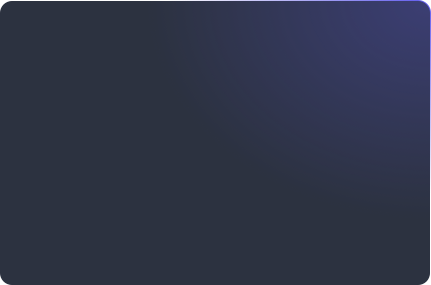
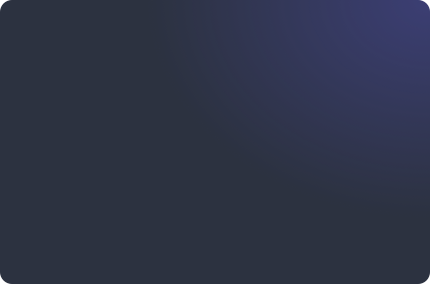
fix:知识库卡片字体&边框&创建知识库输入框问题&文本和视觉输入placeholder和输入框边框

Changed region(s): [[0.0, 0.0, 1.0, 0.9859], [0.9674, 0.9859, 0.9977, 1.0]]

diff --git a/src/views/aiFrame/pages/knowledgeLib/index.vue b/src/views/aiFrame/pages/knowledgeLib/index.vue
@@ -60,7 +60,49 @@ const showGuide = ref(false);
 const knowledgeList = ref<any[]>([]);
 const getKnowledgeList = async () => {
   knowledgeList.value = [];
-  const res = await getCollectionList();
+  // const res = await getCollectionList();
+  const res = [
+    {
+      id: '1111111111111111111111111',
+      docNum: 2,
+      collectionName: '玉米种植技术',
+      dataType: 'unstructured_data',
+      creator: '创建者',
+      description: '描述文字'
+    },
+    {
+      id: '1111111111111111111111111',
+      docNum: 2,
+      collectionName: '玉米种植技术',
+      dataType: 'unstructured_data',
+      creator: '创建者',
+      description: ''
+    },
+    {
+      id: '1111111111111111111111111',
+      docNum: 2,
+      collectionName: '玉米种植技术',
+      dataType: 'unstructured_data',
+      creator: '创建者2222222222222222222222222',
+      description: '描述文字'
+    },
+    {
+      id: '1111111111111111111111111',
+      docNum: 2,
+      collectionName: '玉米种植技术',
+      dataType: 'unstructured_data',
+      creator: '创建者',
+      description: ''
+    },
+    {
+      id: '1111111111111111111111111',
+      docNum: 2,
+      collectionName: '玉米种植技术',
+      dataType: 'unstructured_data',
+      creator: '创建者',
+      description: '描述文字'
+    }
+  ];
   knowledgeList.value = Array.isArray(res) ? res : [];
   console.log(knowledgeList.value.length, 0 === knowledgeList.value.length);
 };
@@ -91,12 +133,13 @@ const handleClickImport = (index: number) => {
 
 const handleSubmitImport = async () => {
   const id = currentLibId.value;
-  if (!docUrl.value) return ElMessage.warning('请先上传文件！');
+  if (!docUrl.value) return ElMessage.warning({ message: '请先上传文件！', customClass: 'my-msg' });
   await postAddDoc({
     collectionId: id,
     fileManagement: docUrl.value
   });
-  message.success('导入成功');
+  // message.success('导入成功');
+  ElMessage.success({ message: '导入成功', customClass: 'my-msg' });
 
   // 上传完成后重新查询文档列表和知识库列表
   await getDocumentList(id);
@@ -154,9 +197,11 @@ const handleClickDeleteDoc = async (docId: string) => {
     });
     if ('doc is not completed, cannot be deleted' === res) {
       // 文档还在训练中
-      message.warning(t('文档训练未完成，暂时无法删除'));
+      // message.warning(t('文档训练未完成，暂时无法删除'));
+      ElMessage.warning({ message: '文档训练未完成，暂时无法删除', customClass: 'my-msg' });
     } else {
-      message.success(t('common.delSuccess'));
+      // message.success(t('common.delSuccess'));
+      ElMessage.success({ message: '删除成功', customClass: 'my-msg' });
     }
 
     // 重新查询文档列表和知识库列表
@@ -183,7 +228,8 @@ const handleDeleteLib = async (index: number) => {
     const code = await postDeleteLib({ collectionId: id });
     switch (code) {
       case '0':
-        message.success(t('common.delSuccess'));
+        // message.success(t('common.delSuccess'));
+        ElMessage.success({ message: '删除成功', customClass: 'my-msg' });
         break;
       case '1000005':
         await deleteLibWithoutCollection(id);
@@ -205,7 +251,8 @@ const deleteLibWithoutCollection = async (collectionId: string) => {
   try {
     await message.delConfirm('该知识库在服务端不存在，是否强制删除？');
     await postForceDeleteLib({ collectionId });
-    message.success(t('common.delSuccess'));
+    // message.success(t('common.delSuccess'));
+    ElMessage.success({ message: '删除成功', customClass: 'my-msg' });
   } catch (e) {
     if ('cancel' === e) {
       console.log('取消删除');
@@ -238,7 +285,7 @@ function getLastPart(str) {
     <template v-if="showLibPage">
       <!-- header -->
       <div class="h-[5.7em] p-[2.4em] pl-[3.6em] flex justify-between items-start">
-        <div class="grow flex items-start h-full">
+        <div class="flex-auto w-[1px] flex items-start h-full mr-[48px]">
           <div class="flex-none logo w-[4.8em] h-[4.8em]"></div>
           <div class="grow pl-[1.6em] flex flex-col justify-between h-[5.7em]">
             <h1 class="m-0 text-[2.4em]">知识库</h1>
@@ -341,30 +388,30 @@ function getLastPart(str) {
           <!-- knowledge lib list -->
           <template v-else>
             <div
-              class="mt-[2.4em] grid md:grid-cols-2 2xl:grid-cols-3 gap-[1.6em] pl-[4em] pr-[2.4em] pb-20px"
+              class="mt-[2.4em] grid grid-cols-2 lg:grid-cols-3 2xl:grid-cols-4 gap-[1.6em] pl-[4em] pr-[2.4em] pb-20px"
             >
               <div
                 v-for="(item, index) in knowledgeList"
                 :key="item.name"
-                class="rounded-[1.2em] card-bg overflow-hidden shadow-lg pt-[25px] pl-[24px] pb-[30px] pr-[37px] transition-all ease-in-out duration-600 hover:scale-103 hover:!border hover:!border-solid hover:!border-[#615ced]"
+                class="rounded-[12px] card-bg overflow-hidden shadow-md p-[16px] transition-all ease-in-out duration-400 hover:scale-103 hover:!border hover:!border-solid hover:!border-[#615ced] box-border"
               >
                 <div class="flex justify-between items-center">
-                  <div>
-                    <div class="text-[22px] text-[#33315A] line-clamp-1 fix-text-white">
+                  <div class="flex-auto w-[1px] mr-[16px]">
+                    <div class="text-[16px] text-[#33315A] line-clamp-1 fix-text-white">
                       {{ item.collectionName }}
                     </div>
-                    <div class="text-[16px] text-[#9998AC] dark:text-[#ccc] mt-[4px] line-clamp-1">
+                    <div class="text-[12px] text-[#9998AC] dark:text-[#ccc] mt-[8px] truncate">
                       ID: kb{{ item.id }}
                     </div>
-                    <div class="flex mt-[4px]">
-                      <div class="tag dark:bg-transparent dark:grad-bg">
+                    <div class="flex mt-[8px]">
+                      <div class="tag dark:bg-transparent dark:grad-bg text-[12px]">
                         {{ dataTypeMap[item.dataType] }}
                       </div>
                       <!-- <div class="tag dark:bg-transparent dark:grad-bg ml-[8px]">
                         {{ item.deptName }}
                       </div> -->
                     </div>
-                    <div class="text-[16px] text-[#9998AC] dark:text-[#ccc] mt-[4px] line-clamp-1">
+                    <div class="text-[12px] text-[#9998AC] dark:text-[#ccc] mt-[8px] truncate">
                       {{ item.creator }} 于{{
                         dayjs(item.createTime).format('YYYY-MM-DD HH:MM:ss')
                       }}创建
@@ -373,7 +420,7 @@ function getLastPart(str) {
                   <div class="flex-none flex flex-col items-center">
                     <div class="card-logo flex-none w-[6.6em] h-[7.3em]"></div>
                     <div class="flex items-center">
-                      <span class="text-[#666666] text-[1.6em] fix-text-white">
+                      <span class="text-[#666666] text-[14px] fix-text-white">
                         文档数量：{{ item.docNum ? item.docNum : 0 }}
                       </span>
                       <div
@@ -384,11 +431,12 @@ function getLastPart(str) {
                   </div>
                 </div>
                 <div
-                  v-show="item.description"
-                  class="text-[16px] text-[#9998AC] dark:text-[#ccc] mt-[8px] line-clamp-1 bg-[#F5F6FA] dark:bg-[#384052] rounded-[6px] p-[6px]"
+                  v-if="item.description"
+                  class="text-[12px] text-[#9998AC] dark:text-[#ccc] mt-[8px] line-clamp-1 bg-[#F5F6FA] dark:bg-[#384052] rounded-[6px] p-[6px]"
                 >
                   {{ item.description }}
                 </div>
+                <div v-else class="h-[27.5px] mt-[8px]"></div>
                 <div class="mt-[24px] flex justify-end items-center">
                   <el-button class="!rounded-full" @click="handleDeleteLib(index)">删除</el-button>
                   <el-button class="!rounded-full" @click="showLibId = item.collectionId">
@@ -581,9 +629,8 @@ function getLastPart(str) {
   }
 
   .card-bg {
-    background-image: url(../../assets/knowledge-card-bg.png);
+    background-image: url(../../assets/knowledge-card-bg-2.png);
     background-size: 100% 100%;
-    border: 1px solid #ebecf2;
   }
 }
 
@@ -627,7 +674,6 @@ function getLastPart(str) {
   background-color: #f1f1fd;
   padding: 4px 8px;
   color: #615ced;
-  font-size: 1.3em;
 }
 
 .card-btn-border-top {
@@ -767,7 +813,6 @@ function getLastPart(str) {
     background: linear-gradient(90deg, #9362da 0%, #4378ff 100%);
     padding: 4px 8px;
     color: white;
-    font-size: 1.3em;
     border: none;
   }
 
@@ -837,6 +882,10 @@ function getLastPart(str) {
   .my-msg {
     background-color: #2c3240;
     border: none;
+
+    .el-message__content {
+      color: white;
+    }
   }
 }
 </style>

diff --git a/src/views/aiFrame/pages/knowledgeLib/kowledgeLibCreateOrUpdate.vue b/src/views/aiFrame/pages/knowledgeLib/kowledgeLibCreateOrUpdate.vue
@@ -28,7 +28,7 @@
               class="!w-1/4"
               placeholder="请输入知识库名称"
               clearable
-              input-style="font-size: 1.6em"
+              input-style="font-size: 1.6em; margin: 0 4px;"
             />
             <!-- <div class="text-14px pl-10px text-[#8d9095]">
               注:仅支持英文和数字的组合，并以英文字母开头
@@ -91,7 +91,7 @@
                 :label="item"
                 border
               >
-                <span class="leading-normal text-[1.6em]">{{ item }}</span>
+                <span class="leading-normal text-[1.6em] p-[8px]">{{ item }}</span>
               </el-radio>
             </el-radio-group>
           </el-form-item>
@@ -151,7 +151,7 @@
             <div
               v-for="item in recommendSliceLengthList"
               :key="item"
-              class="w-[4.35em] h-[2.4em] flex justify-center items-center rounded-[0.6em] bg-[#F5F6FA] dark:bg-#2c3240 ai-dark:bg-[#2C3240] cursor-pointer"
+              class="w-[4.35em] h-[2.4em] flex justify-center items-center rounded-[0.6em] bg-[#F5F6FA] dark:bg-#2c3240 ai-dark:bg-[#2C3240] cursor-pointer transition-all hover:bg-[#615ced] hover:text-white"
               @click="handleClickRecommendSliceLength(item)"
             >
               {{ item }}
@@ -472,16 +472,26 @@ const handleClickCreateLib = async () => {
 }
 
 :deep(.el-input__wrapper.is-focus) {
-  box-shadow: 0 0 0 0.1em #615ced inset;
+  box-shadow: 0 0 0 1px #615ced;
 }
 
 :deep(.el-textarea__inner:focus) {
   outline: 0;
-  box-shadow: 0 0 0 0.1em #615ced inset;
+  box-shadow: 0 0 0 1px #615ced inset;
+}
+
+:deep(.el-input__wrapper) {
+  padding-top: 5px;
+  padding-bottom: 5px;
+}
+
+:deep(.el-select .el-select__selection) {
+  padding: 3px;
+  height: 22px;
 }
 
 :deep(.el-select__wrapper.is-focused) {
-  box-shadow: 0 0 0 0.1em #615ced inset;
+  box-shadow: 0 0 0 1px #615ced inset;
 }
 
 :deep(.vector-dimension-radio .el-radio) {

diff --git a/src/views/aiFrame/pages/textChat/index.vue b/src/views/aiFrame/pages/textChat/index.vue
@@ -557,7 +557,13 @@ const handleDeleteChatTheme = (id: string) => {
           style="flex: 0 0 auto"
         >
           <div class="rounded-8px p-8px bg-white dark:bg-#121212 flex items-end overflow-hidden">
-            <textarea class="ai-show-textarea grow" id="textarea" rows="2" wrap="soft"></textarea>
+            <textarea
+              class="ai-show-textarea grow"
+              id="textarea"
+              rows="2"
+              wrap="soft"
+              placeholder="请输入问题，我可以完成智能问答、文档编写、代码生成等多种任务…"
+            ></textarea>
             <div class="mx-8px mb-4px">
               <RadioButton
                 v-model:disableSend="radioRecording"

diff --git a/src/views/aiFrame/pages/visionModel/index.vue b/src/views/aiFrame/pages/visionModel/index.vue
@@ -908,6 +908,7 @@ const sizeList = ref([
                 rows="2"
                 wrap="soft"
                 v-model="inputTextITT"
+                placeholder="请输入问题，我可以完成智能回答、图片内容解答等多种任务"
               ></textarea>
               <div
                 class="w-24px h-24px relative left-[-8px] top-[-4px]"

diff --git a/src/views/aiFrame/index.vue b/src/views/aiFrame/index.vue
@@ -152,7 +152,7 @@ const showedModel = ref<string>('textModel');
   .input-outer-container {
     width: calc(100% - 90px);
     left: 44px;
-    background: white;
+    background: linear-gradient(to right, #4378ff, #9362da);
   }
 }
 
